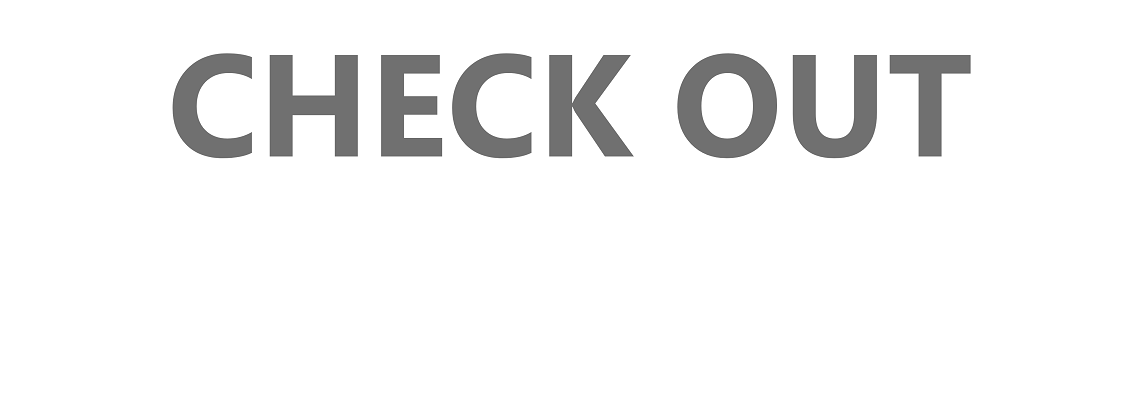
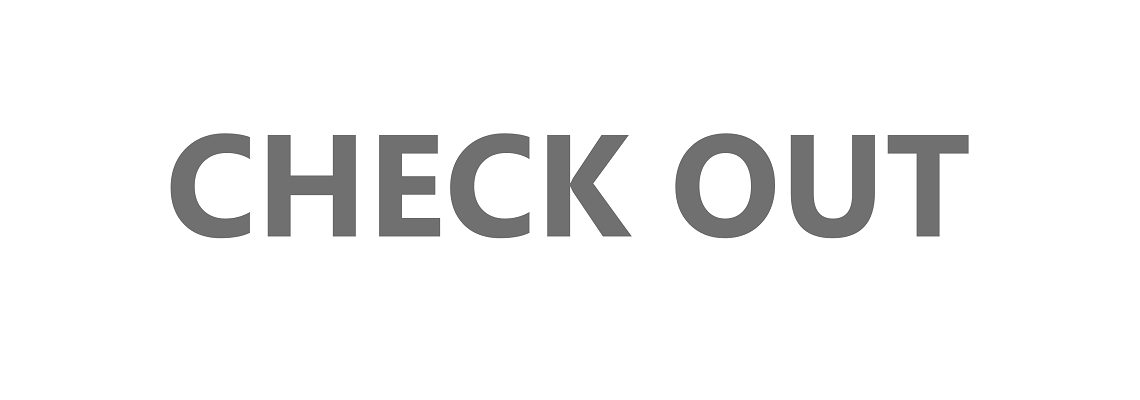
ändringar till css samt viss html

Changed region(s): [[0.1228, 0.12, 0.5526, 0.6], [0.5833, 0.12, 0.8596, 0.6]]

diff --git a/index.html b/index.html
@@ -8,45 +8,43 @@
 </head>
 <body onload="getItems()">
     <div class="container">
-        <div class="row justify-content-center my-row">
-            <div class="col-xs-12">
-                <div id="banner" class="carousel slide" data-ride="carousel">
-                    <div class="carousel-inner" role="listbox">
-                        <div class="carousel-item active">
-                            <img src="img/banner/item1.jpg" alt="banner">
-                            <div class="carousel-caption">
-                                <h1>BILLIE EILISH</h1>
-                            </div>
-                        </div>
-                        <div class="carousel-item">
-                            <img src="img/banner/item2.jpg" alt="banner">
-                            <div class="carousel-caption">
-                                <h1>Tyler the Creator</h1>
-                            </div>
-                        </div>
-                        <div class="carousel-item">
-                            <img src="img/banner/item3.jpg" alt="banner">
-                            <div class="carousel-caption">
-                                <h1>King Krule</h1>
-                            </div>
+        <div class="row">
+            <div id="banner" class="carousel slide" data-ride="carousel">
+                <div class="carousel-inner" role="listbox">
+                    <div class="carousel-item active">
+                        <img src="img/banner/item1.jpg" alt="banner">
+                        <div class="carousel-caption">
+                            <h1>BILLIE EILISH</h1>
                         </div>
                     </div>
-
-                    <a class="carousel-control-prev" href="#banner" role="button" data-slide="prev">
-                        <span class="carousel-control-prev-icon" aria-hidden="true"></span>
-                        <span class="sr-only">Previous</span>
-                    </a>
-                    <a class="carousel-control-next" href="#banner" role="button" data-slide="next">
-                        <span class="carousel-control-next-icon" aria-hidden="true"></span>
-                        <span class="sr-only">Next</span>
-                    </a>
+                    <div class="carousel-item">
+                        <img src="img/banner/item2.jpg" alt="banner">
+                        <div class="carousel-caption">
+                            <h1>Tyler the Creator</h1>
+                        </div>
+                    </div>
+                    <div class="carousel-item">
+                        <img src="img/banner/item3.jpg" alt="banner">
+                        <div class="carousel-caption">
+                            <h1>King Krule</h1>
+                        </div>
+                    </div>
                 </div>
+
+                <a class="carousel-control-prev" href="#banner" role="button" data-slide="prev">
+                    <span class="carousel-control-prev-icon" aria-hidden="true"></span>
+                    <span class="sr-only">Previous</span>
+                </a>
+                <a class="carousel-control-next" href="#banner" role="button" data-slide="next">
+                    <span class="carousel-control-next-icon" aria-hidden="true"></span>
+                    <span class="sr-only">Next</span>
+                </a>
             </div>
         </div>
     </div>
     <div class="container">
         <!-- Denna div fylls med butikens produkter vid start -->
-        <div id="store" class="container">
+        <div id="store">
         </div>
 
         <div id="storeBtnRow" class="row justify-content-center">

diff --git a/checkout.html b/checkout.html
@@ -7,16 +7,16 @@
     <title>Checkout</title>
 </head>
 <body onload="getItems(); loadCart()">
-    <div class="container my-container">
-        <div id="checkBanner" class="row my-row align-items-center">
-            <div class="col-xs-12 col-lg-12">
+    <div class="container">
+        <div class="row">
+            <div class="col-12">
                 <img src="img/banner/check.png" alt="">
             </div>
         </div>
     </div>
     <div class="container">
         <div class="row">
-            <div class="col-md-9 col-sm-12">
+            <div class="col-12 col-md-9">
                 
                 <!-- Formulär för kontaktinfo -->
 
@@ -68,7 +68,7 @@
                 </form>
             </div>
 
-            <div class="col-md-3 col-sm-12 cartStyle">
+            <div class="col-12 col-md-3 cartStyle">
                 <h4 class="text-center">Cart</h4>
                 
                 <!-- Denna div fylls med produkterna från varukorgen -->
@@ -78,12 +78,12 @@
             </div>
         </div>
         <div class="row justify-content-end">
-            <div class="col-xs-4">
-                <button onclick="clearCart()" class="btn btn-outline-dark mx auto d-block">Clear Cart</button>
+            <div class="col-2">
+                <button onclick="clearCart()" class="btn btn-outline-dark">Clear Cart</button>
             </div>
         </div>
         <div class="row justify-content-center">
-            <div class="col-xs-4">
+            <div class="col-4">
                 <a id="backBtn" class="btn btn-outline-dark mx-auto d-block btmbtn" href="index.html">Back</a></button>
             </div>
         </div>

diff --git a/style.css b/style.css
@@ -1,20 +1,8 @@
-.my-container{
-    padding: 0;
+
+#banner img{
+    width: 100%;
 }
 
-.my-row{
-    height: 400px;
-    margin-bottom: 15px;
-    padding: 0px;
-}
-
-#checkBanner{
-    margin: 0px;
-}
-
-#checkBanner div{
-    padding: 0px;
-}
 
 #store li{
     font-size: 14px;
@@ -45,12 +33,9 @@
 
 .cartStyle{
     border: 1px solid rgb(201, 201, 201);
-    border-bottom-left-radius: 4px;
-    border-bottom-right-radius: 4px;
     border-top: none;
     border-bottom: none;
-    margin: 0 0 5px;
-    padding: 15px 0px;
+    padding: 15px;
 }
 
 .cartStyle > div {
